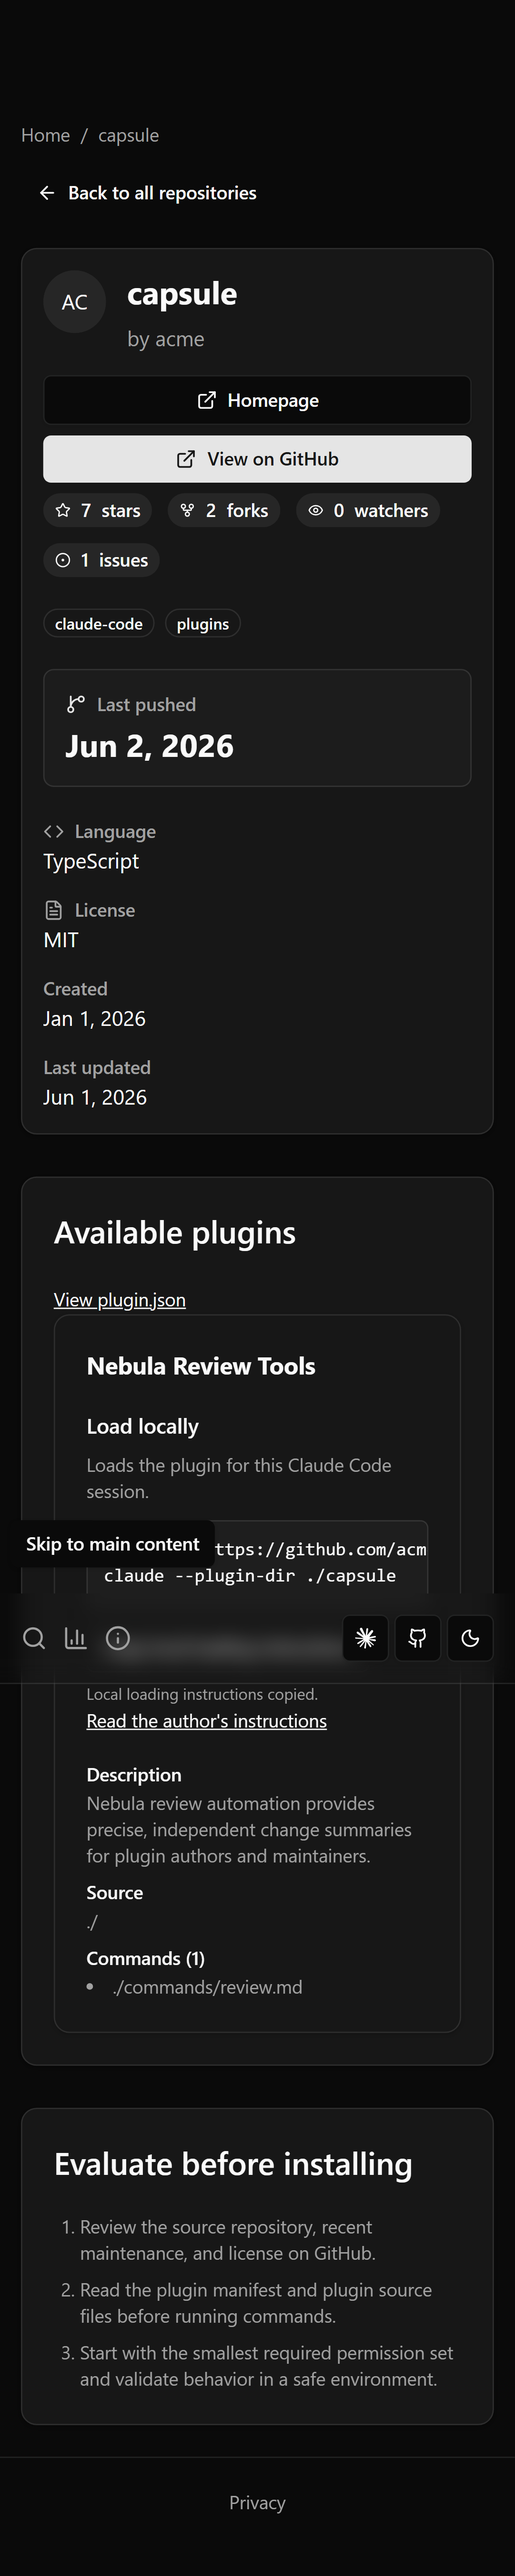
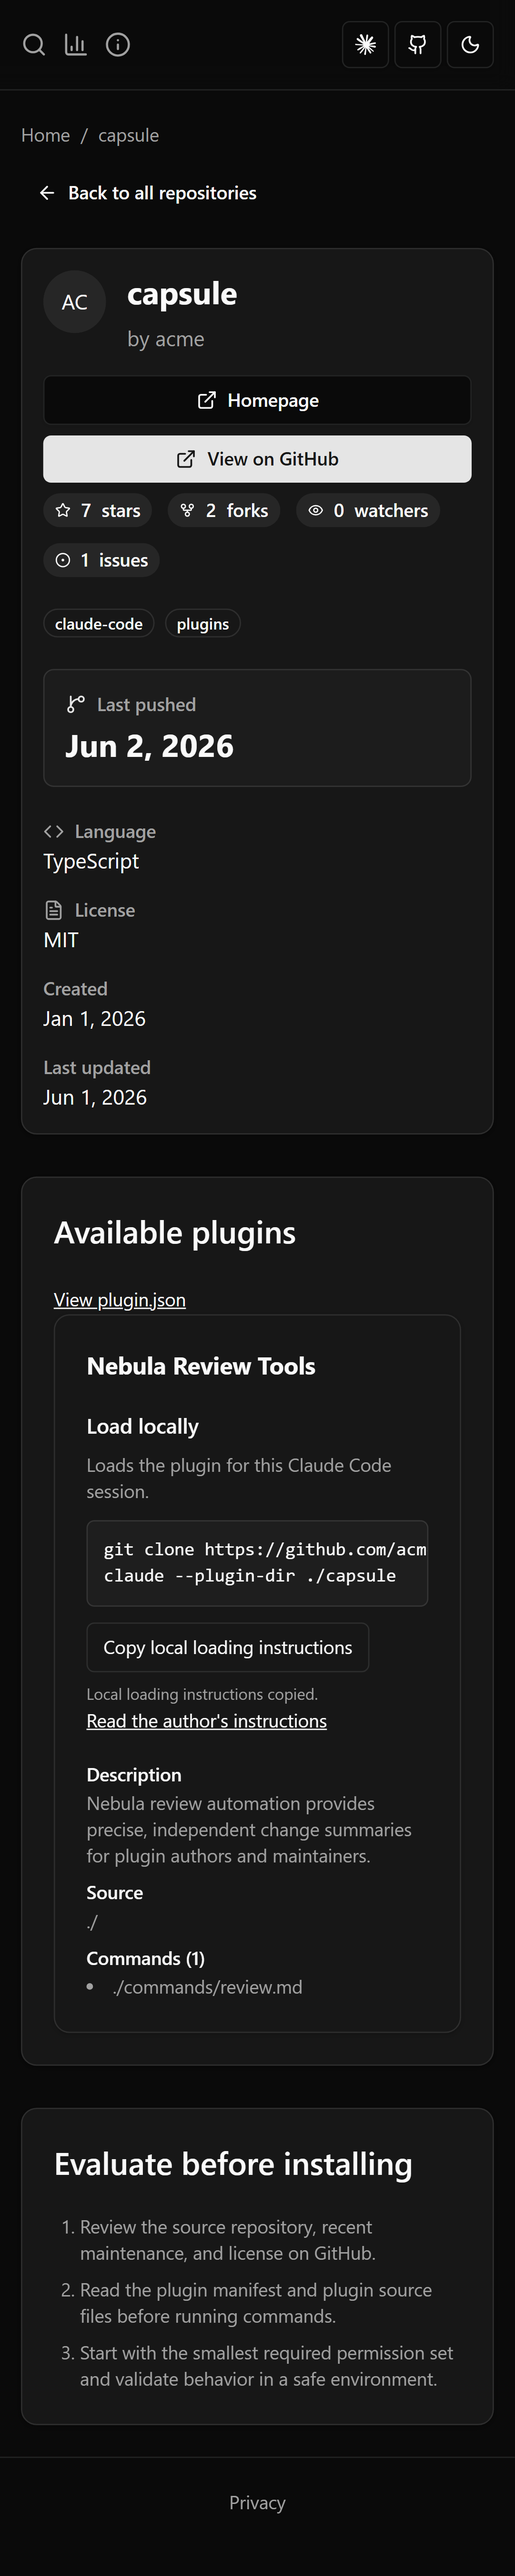
test: verify standalone indexing with the split catalog reader

diff --git a/awesomeclaudeplugins.com/ui/tests/e2e/standalone-plugin.spec.ts b/awesomeclaudeplugins.com/ui/tests/e2e/standalone-plugin.spec.ts
@@ -53,6 +53,8 @@ test('finds standalone summaries through the real catalog and opens local loadin
   await expect(page.getByText('/plugin install', { exact: false })).toHaveCount(0)
   await page.getByRole('button', { name: 'Copy local loading instructions' }).click()
   await expect.poll(() => copiedText(page)).toBe('git clone https://github.com/acme/capsule.git ./capsule\nclaude --plugin-dir ./capsule')
+  await page.evaluate(() => window.scrollTo(0, 0))
+  await expect.poll(() => page.evaluate(() => window.scrollY)).toBe(0)
   await page.screenshot({ path: testInfo.outputPath('standalone-catalog.png'), fullPage: true })
 })
 

diff --git a/awesomeclaudeplugins.com/docs/evidence/2026-11-01-standalone-plan-audit.md b/awesomeclaudeplugins.com/docs/evidence/2026-11-01-standalone-plan-audit.md
@@ -6,7 +6,7 @@
 - `docs/superpowers/specs/2026-11-01-standalone-plugin-indexing-design.md` — scope, данные и AC1–AC11.
 - `docs/superpowers/plans/2026-11-01-standalone-plugin-indexing.md` — шесть этапов и конкретные проверки.
 
-Аудит начат от `9ceb548` после merge #427; доработка перебазирована на **`03b7e40`** с новой marketplace-командой из #423. Работа выполняется в изолированном T3 worktree. Исходные документы в ветке `imp` не изменялись.
+Аудит начат от `9ceb548` после merge #427; доработка перебазирована на `03b7e40` с новой marketplace-командой из #423, затем на **`36de88d`** с компактным индексом и shards из #428. Работа выполняется в изолированном T3 worktree. Исходные документы в ветке `imp` не изменялись.
 
 ## Что потребовало исправления
 
@@ -40,10 +40,12 @@
 
 ## Проверки и воспроизведение
 
-- Crawler: 731 unit tests / 39 files, 4 integration tests / 3 files; typecheck, integration typecheck, build и lint прошли.
-- UI после rebase: 407 unit tests / 53 files; typecheck и lint. Три прежних lint warnings остаются без изменений.
+- Crawler после rebase на `36de88d`: 738 unit tests / 40 files, 4 integration tests / 3 files; typecheck, integration typecheck, build и lint прошли.
+- UI после rebase на `36de88d`: 420 unit tests / 54 files; typecheck и lint. Три прежних lint warnings остаются без изменений.
 - `cd awesomeclaudeplugins.com/ui && bun run test:e2e:standalone`: **10 desktop/mobile E2E**, production build, настоящие catalog API/SSR, GitHub mock. Все прошли, включая обрыв тела HTTP 200.
 - Обычный focused набор `repo-detail.spec.ts` + `directory.spec.ts`: **94 desktop/mobile E2E прошли** отдельно с исходным production snapshot, чтобы fixture override не скрыл регрессии обычного каталога.
+
+При конфликте с #428 сохранены весь upstream `catalogStore.ts` fast path, helpers и существующие storage tests. Тест fixture вынесен в `catalogFixtureStore.test.ts`; только явно заданный `CATALOG_DATA_PATH` выбирает полный тестовый JSON. Обычный каталог продолжает использовать компактный индекс, compressed search metadata и hydration из shards. Оба режима проверяются отдельно.
 
 ## Скриншоты
 
